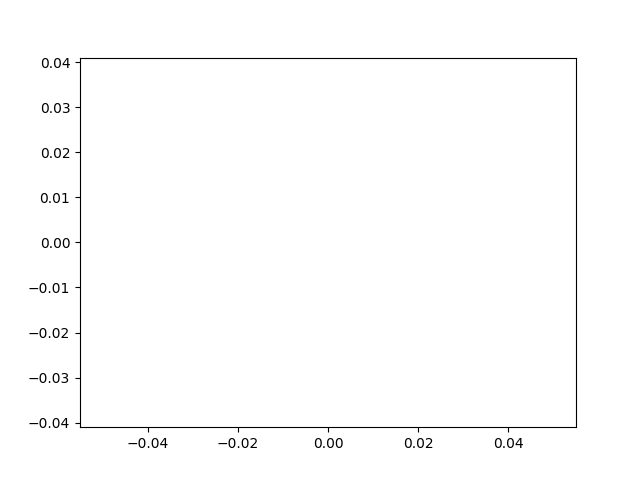
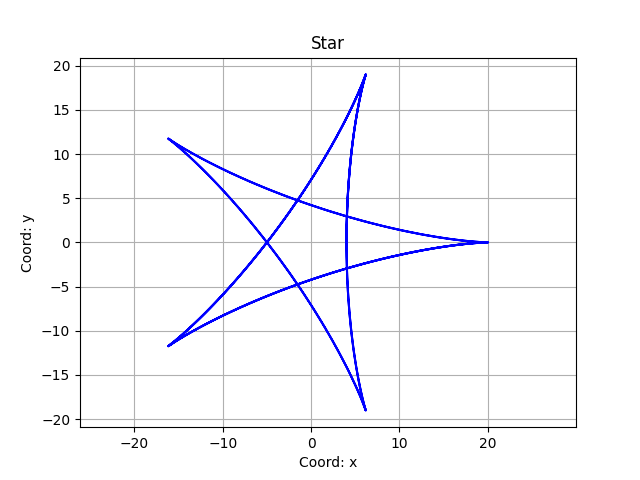
glglglglglg

diff --git a/star.py b/star.py
@@ -1,0 +1,35 @@
+from matplotlib.animation import FuncAnimation
+import matplotlib.pyplot as plt
+import numpy as np
+
+
+def circle_move(R, vx0, vy0, time):
+    t = np.arange(-2*np.pi, 8*np.pi, 0.1)
+    x = 12*np.cos(t) + 8*np.cos(1.5*t)**5
+    y = 12*np.sin(t) - 8*np.sin(1.5*t)**5
+
+    X = x * np.cos(time) - y * np.sin(time)
+    Y = y * np.cos(time) + x * np.sin(time)
+    return X, Y
+
+
+def animate(i):
+    ball.set_data(circle_move(R=0.5, vx0=0.01, vy0=0.01, time=i))
+
+
+if __name__ == '__main__':
+
+    fig, ax = plt.subplots()
+    ball, = plt.plot([], [], '-', color='g', label='Ball')
+
+    edge = 40
+    plt.axis('equal')
+    ax.set_xlim(-edge, edge)
+    ax.set_ylim(-edge, edge)
+    plt.xlabel('Coord: x')
+    plt.ylabel('Coord: y')
+    plt.title('Funny turtle')
+    
+    ani = FuncAnimation(fig, animate, frames=np.arange(0, 2*np.pi, 0.1), interval=30)
+
+ani.save('star.gif') 

diff --git a/test.py b/test.py
@@ -1,0 +1,32 @@
+from matplotlib.animation import FuncAnimation
+import matplotlib.pyplot as plt
+import numpy as np
+
+
+def circle_move(R, vx0, vy0, time):
+    t = np.arange(-2*np.pi, 8*np.pi, 0.1)
+    x = 12*np.cos(t) + 8*np.cos(1.5*t)
+    y = 12*np.sin(t) - 8*np.sin(1.5*t)
+
+    X = x * np.cos(time) - y * np.sin(time)
+    Y = y * np.cos(time) + x * np.sin(time)
+    return X, Y
+
+
+def animate(i):
+    ball.set_data(circle_move(R=0.5, vx0=0.01, vy0=0.01, time=i))
+
+
+if __name__ == '__main__':
+
+    fig, ax = plt.subplots()
+    ball, = plt.plot([], [], '-', color='r', label='Ball')
+
+    edge = 40
+    plt.axis('equal')
+    ax.set_xlim(-edge, edge)
+    ax.set_ylim(-edge, edge)
+    
+    ani = FuncAnimation(fig, animate, frames=np.arange(0, 8*np.pi, 0.1), interval=30)
+
+ani.save('test.gif')                       

diff --git a/lab7_dop_task3.py b/lab7_dop_task3.py
@@ -3,12 +3,18 @@ import matplotlib.pyplot as plt
 import numpy as np
 
 def star():
-    t = np.arange(,  , 0.1)
+    t = np.arange(-2*np.pi, 8*np.pi, 0.1)
 
     x = 12*np.cos(t) + 8*np.cos(1.5*t)
     y = 12*np.sin(t) - 8*np.sin(1.5*t)
 
-    plt.plot(x, y, lw=3)
+    plt.plot(x, y, color = 'b', ms = 5)
+
+    plt.xlabel('Coord: x')
+    plt.ylabel('Coord: y')
+    plt.title('Star')
+    plt.grid()
+
     plt.axis('equal')
     plt.savefig('task3.png')
 

diff --git a/lec7_standart_objects.py b/lec7_standart_objects.py
@@ -4,7 +4,7 @@ import numpy as np
 
 
 def circle_move(R, angle_vel, time):
-    alpha = angle_vel * np.pi / 180 * time
+    alpha = angle_vel * 2 * np.pi / 180 * time
     x = R * np.cos(alpha)
     y = R * np.sin(alpha)
     return x, y
